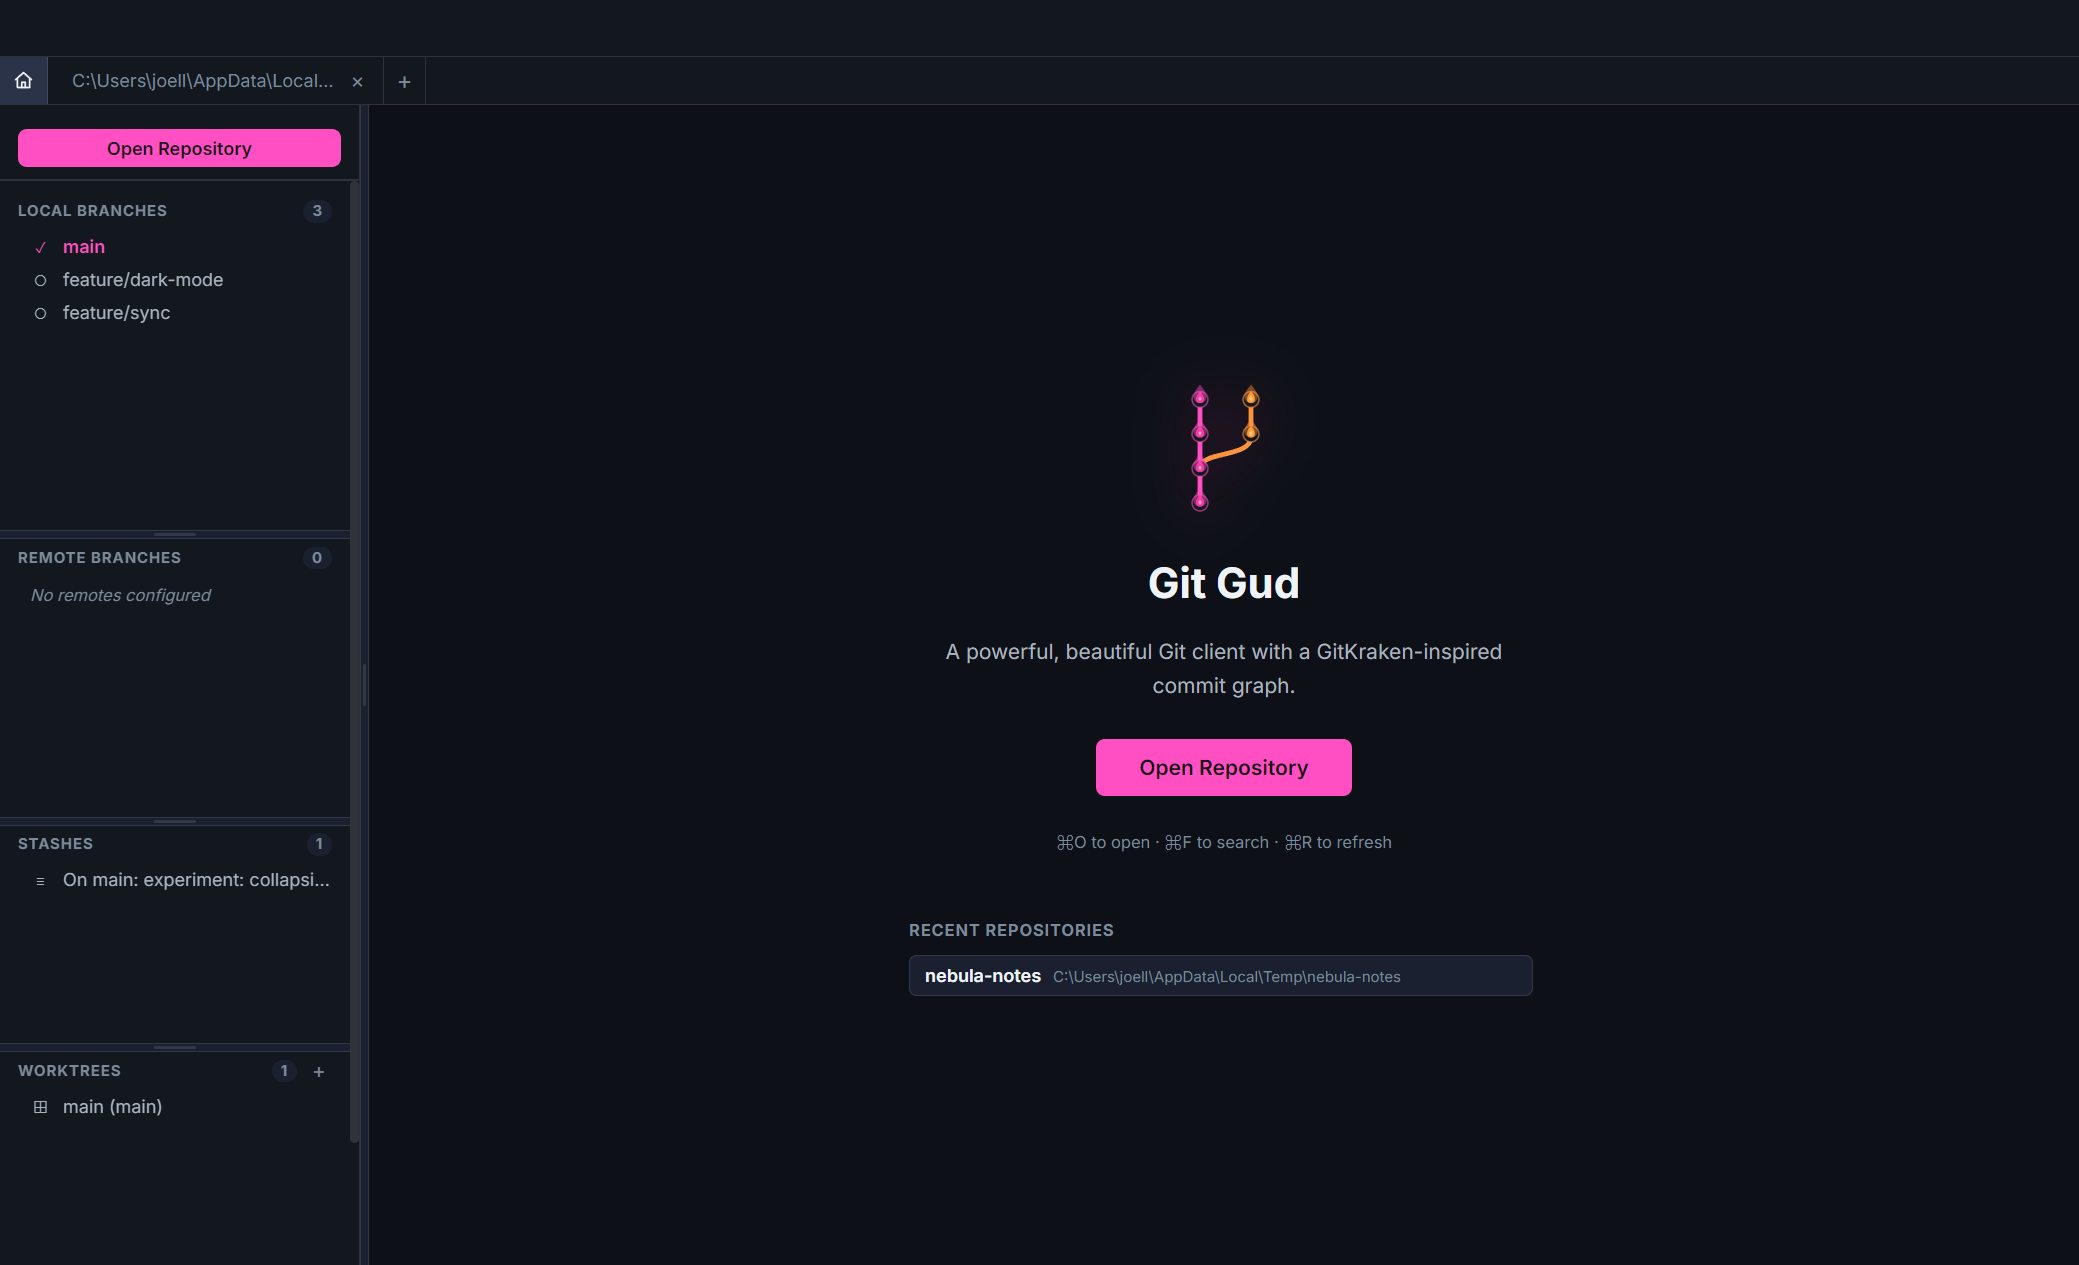
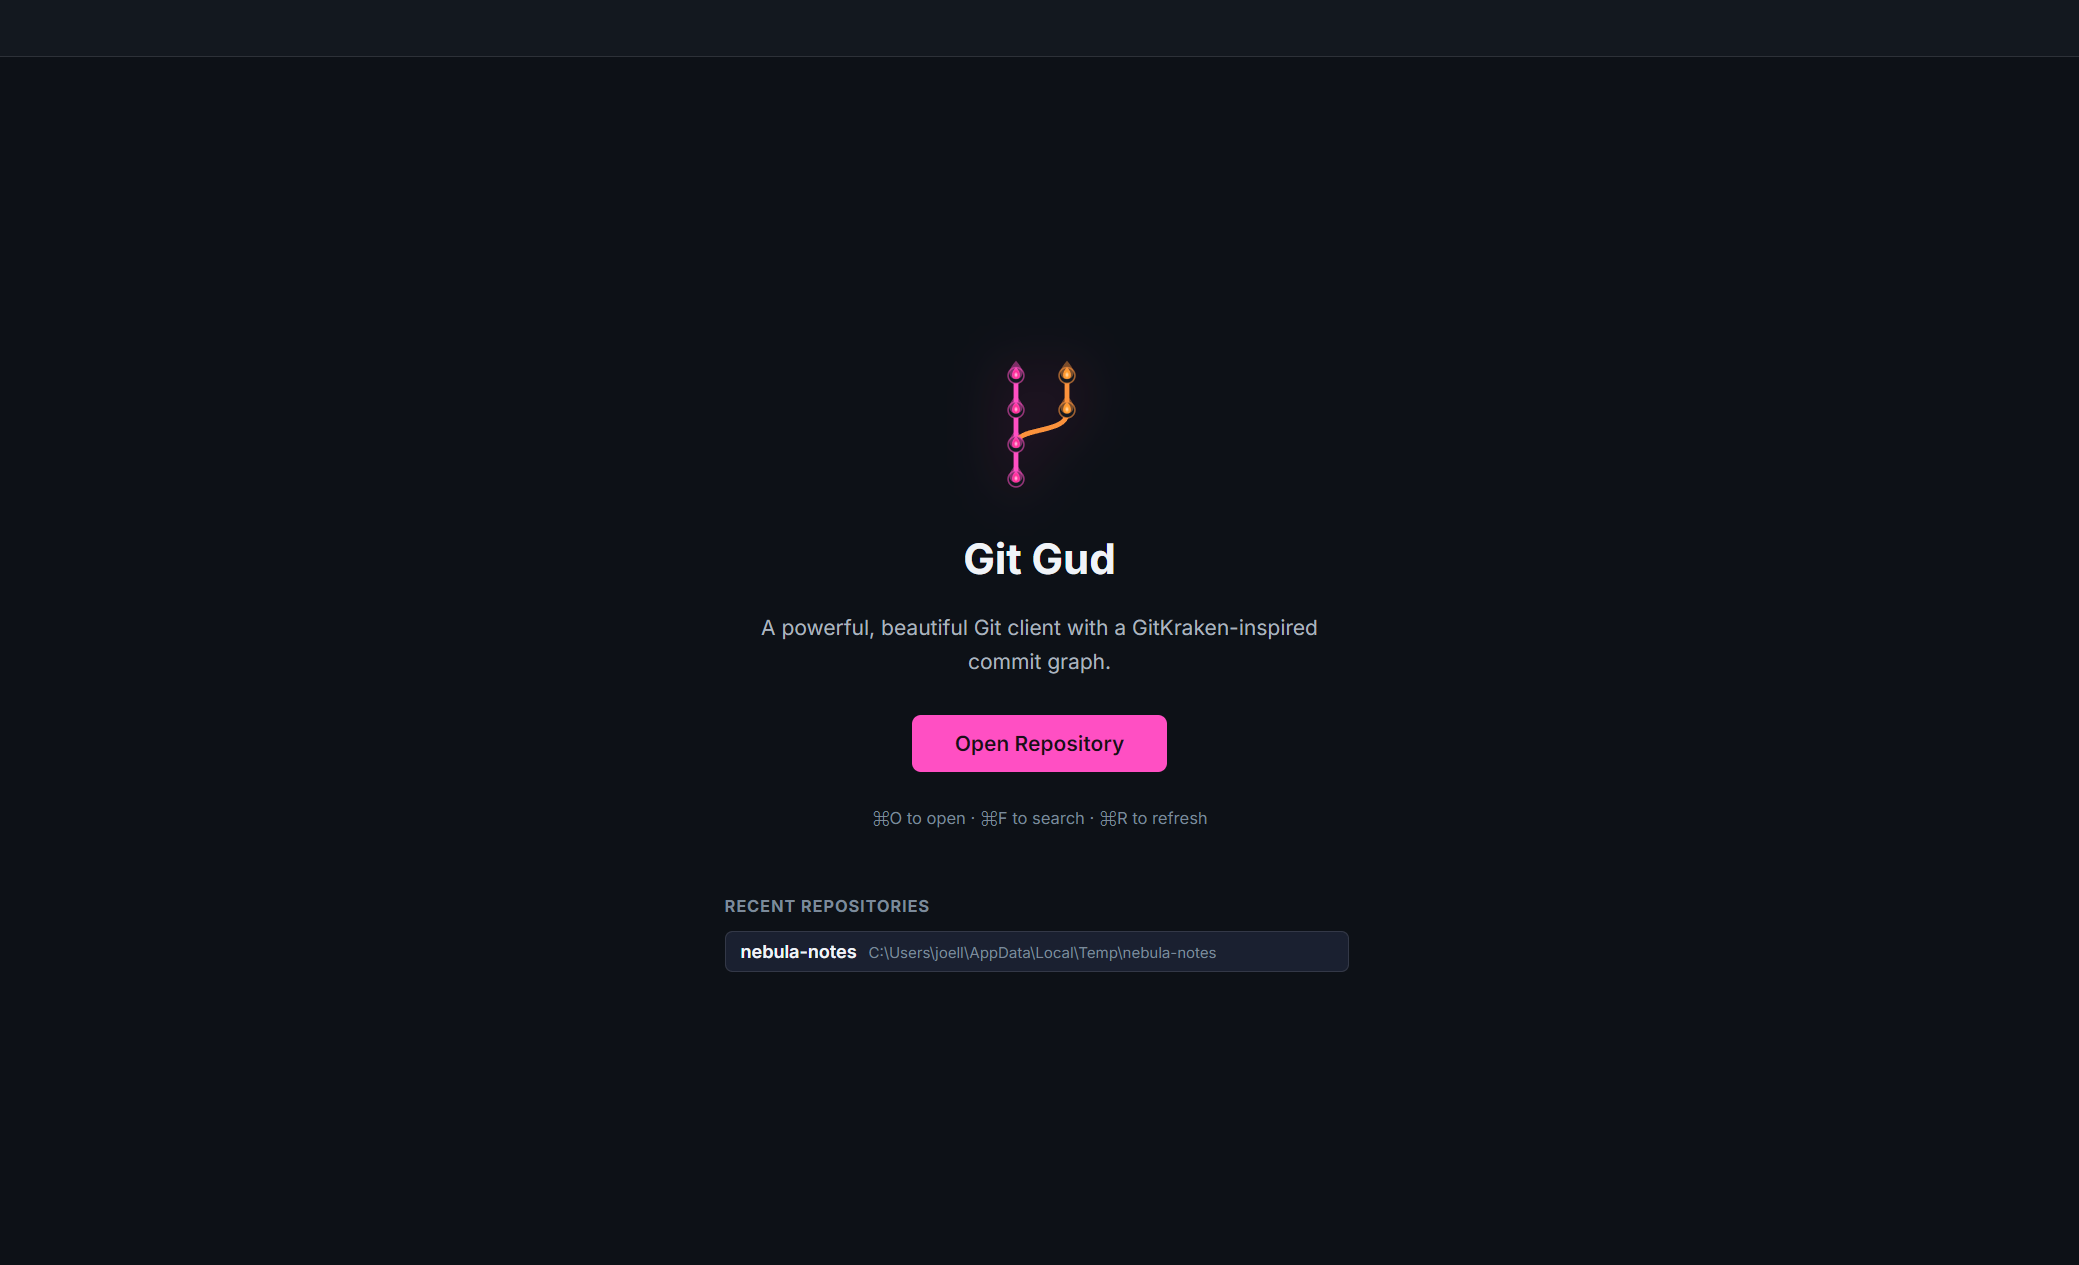
fix sidebar on home page

diff --git a/src/renderer/App.tsx b/src/renderer/App.tsx
@@ -926,6 +926,9 @@ export default function App() {
         ref={appBodyRef}
         style={{ ['--sidebar-width' as string]: `${sidebarWidth}px` } as React.CSSProperties}
       >
+        {/* Home (no repo) shows only the Welcome screen — the sidebar's
+            branches/stashes/etc. belong to a repo tab, not the start page. */}
+        {repo.repoPath && (<>
         <Sidebar
           repoPath={repo.repoPath}
           branches={repo.branches}
@@ -958,6 +961,7 @@ export default function App() {
         >
           <div className="panel-resize-grip panel-resize-grip--v" />
         </div>
+        </>)}
 
         <main className="main-content">
           {!repo.repoPath ? (
